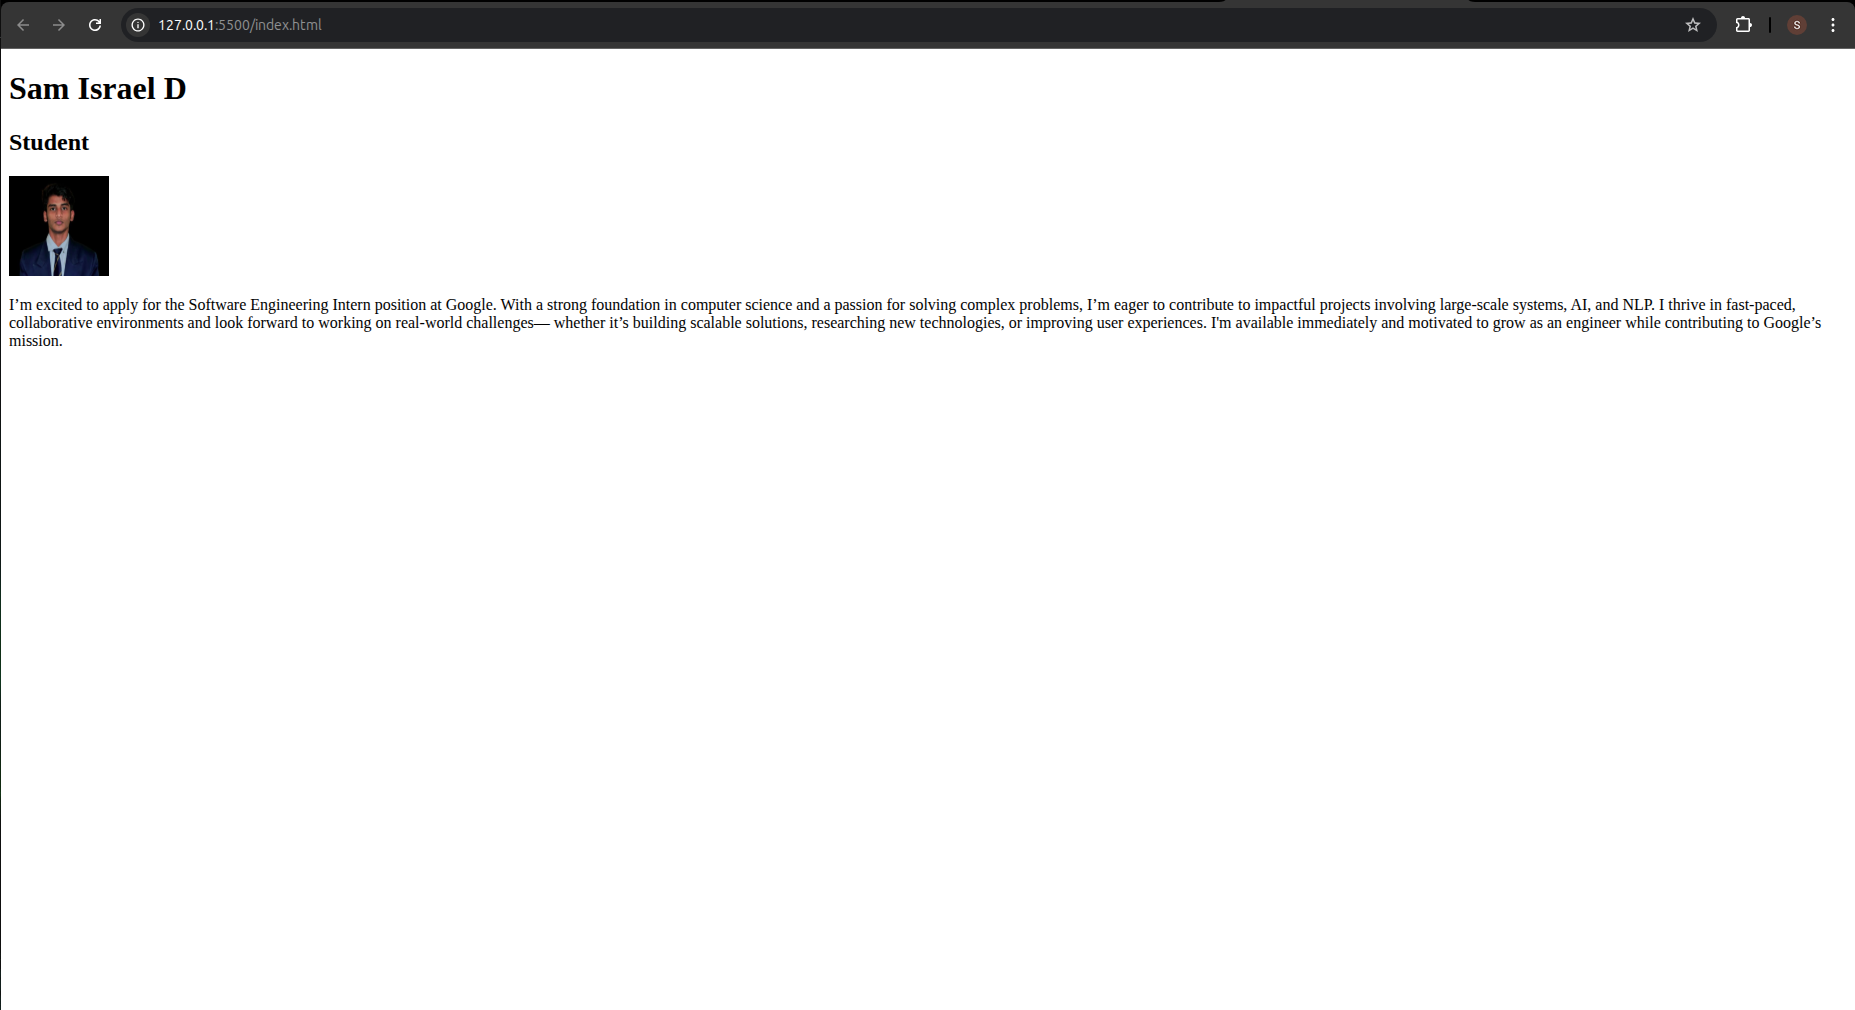
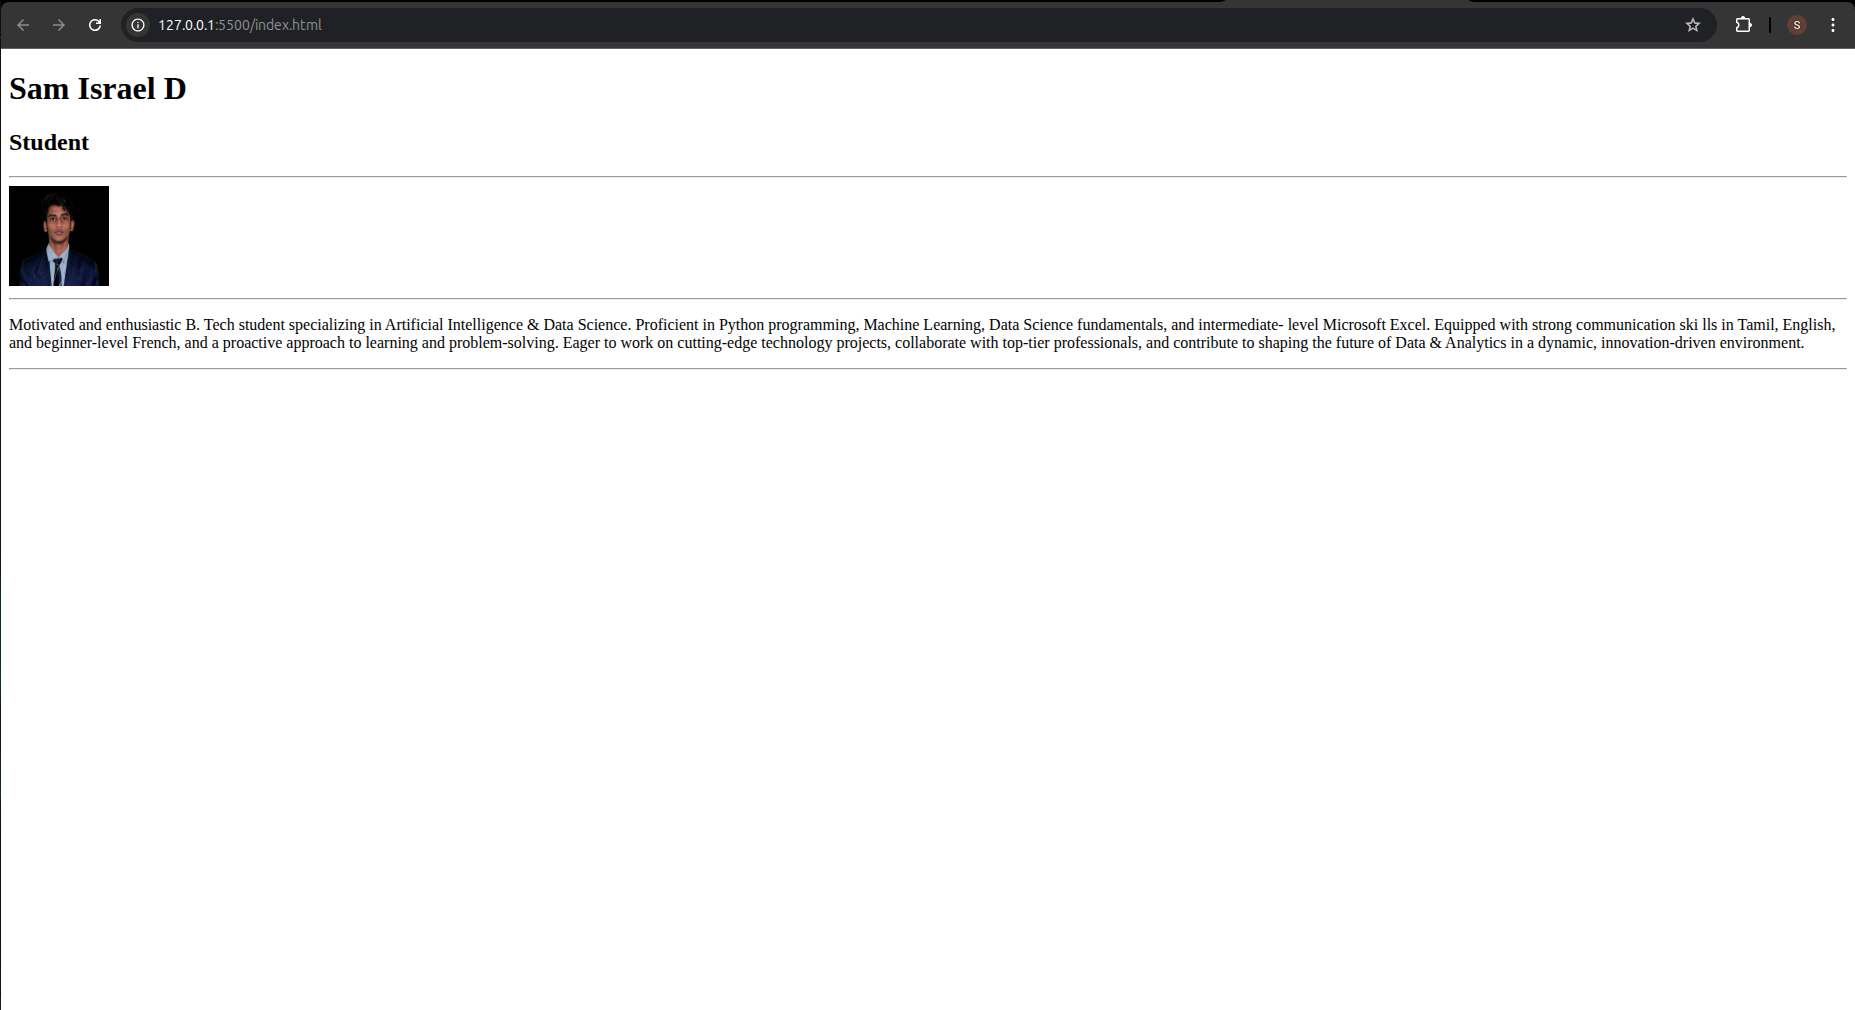
final

Changed region(s): [[0.0, 0.1535, 0.9833, 0.3683]]

diff --git a/index.html b/index.html
@@ -17,17 +17,16 @@
     <hr />
     <section>
       <p>
-        I’m excited to apply for the Software Engineering Intern position at
-        Google. With a strong foundation in computer science and a passion for
-        solving complex problems, I’m eager to contribute to impactful projects
-        involving large-scale systems, AI, and NLP. I thrive in fast-paced,
-        collaborative environments and look forward to working on real-world
-        challenges— whether it’s building scalable solutions, researching new
-        technologies, or improving user experiences. I'm available immediately
-        and motivated to grow as an engineer while contributing to Google’s
-        mission.
+        Motivated and enthusiastic B. Tech student specializing in Artificial
+        Intelligence & Data Science. Proficient in Python programming, Machine
+        Learning, Data Science fundamentals, and intermediate- level Microsoft
+        Excel. Equipped with strong communication ski lls in Tamil, English, and
+        beginner-level French, and a proactive approach to learning and
+        problem-solving. Eager to work on cutting-edge technology projects,
+        collaborate with top-tier professionals, and contribute to shaping the
+        future of Data & Analytics in a dynamic, innovation-driven environment.
       </p>
     </section>
-    <hr>
+    <hr />
   </body>
 </html>

diff --git a/README.md b/README.md
@@ -62,21 +62,19 @@ Focus on semantic HTML and readability.
     <hr />
     <section>
       <p>
-        I’m excited to apply for the Software Engineering Intern position at
-        Google. With a strong foundation in computer science and a passion for
-        solving complex problems, I’m eager to contribute to impactful projects
-        involving large-scale systems, AI, and NLP. I thrive in fast-paced,
-        collaborative environments and look forward to working on real-world
-        challenges— whether it’s building scalable solutions, researching new
-        technologies, or improving user experiences. I'm available immediately
-        and motivated to grow as an engineer while contributing to Google’s
-        mission.
+        Motivated and enthusiastic B. Tech student specializing in Artificial
+        Intelligence & Data Science. Proficient in Python programming, Machine
+        Learning, Data Science fundamentals, and intermediate- level Microsoft
+        Excel. Equipped with strong communication ski lls in Tamil, English, and
+        beginner-level French, and a proactive approach to learning and
+        problem-solving. Eager to work on cutting-edge technology projects,
+        collaborate with top-tier professionals, and contribute to shaping the
+        future of Data & Analytics in a dynamic, innovation-driven environment.
       </p>
     </section>
-    <hr>
+    <hr />
   </body>
 </html>
-
 
 ```
 ## Output:
